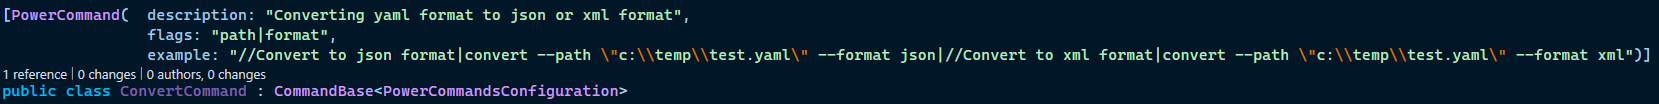
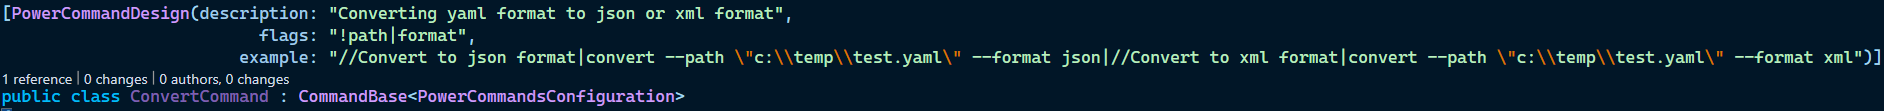
Updated documentation

diff --git a/src/PainKiller.PowerCommands/PainKiller.PowerCommands.MyExampleCommands/Commands/ConvertCommand.cs b/src/PainKiller.PowerCommands/PainKiller.PowerCommands.MyExampleCommands/Commands/ConvertCommand.cs
@@ -1,0 +1,16 @@
+using PainKiller.PowerCommands.MyExampleCommands.Configuration;
+
+namespace PainKiller.PowerCommands.MyExampleCommands.Commands;
+
+[PowerCommandDesign(description: "Converting yaml format to json or xml format",
+                          flags: "!path|format",
+                        example: "//Convert to json format|convert --path \"c:\\temp\\test.yaml\" --format json|//Convert to xml format|convert --path \"c:\\temp\\test.yaml\" --format xml")]
+public class ConvertCommand : CommandBase<PowerCommandsConfiguration>
+{
+    public ConvertCommand(string identifier, PowerCommandsConfiguration configuration) : base(identifier, configuration) { }
+
+    public override RunResult Run()
+    {
+        return Ok();
+    }
+}

diff --git a/src/PainKiller.PowerCommands/Core/PainKiller.PowerCommands.Core/Managers/InputValidationManager.cs b/src/PainKiller.PowerCommands/Core/PainKiller.PowerCommands.Core/Managers/InputValidationManager.cs
@@ -36,7 +36,7 @@ public class InputValidationManager
         {
             flagInfo.Value = _input.GetFlagValue(flagInfo.Name);
             if (!string.IsNullOrEmpty(flagInfo.Value)) continue;
-            _logger.Invoke($"{flagInfo.Name}", DisplayAndWriteToLog);
+            _logger.Invoke($"Flag [{flagInfo.Name}] is required to have a value.", DisplayAndWriteToLog);
             retVal.HasValidationError = true;
         }
 

diff --git a/Docs/PowerCommandDesignAttribute.md b/Docs/PowerCommandDesignAttribute.md
@@ -1,4 +1,4 @@
-# PowerCommands Attribute
+# PowerCommandsDesign Attribute
 ## Always describe your Commands
 Be kind to your consumer as it often turn out to be you that are the consumer, fill in a shourt description of what the PowerCommand is doing and how to use it.
 This is easy with the usage of the PowerCommandsAttribute, just apply them on the top of your class definition.
@@ -24,31 +24,39 @@ And this help will be displayed:
 
 ### A clooser look on the syntax
 ```
-[PowerCommand(  description: "Converting yaml format to json or xml format",
-                flags: "path|format",
+[PowerCommandDesign(  description: "Converting yaml format to json or xml format",
+                flags: "!path|format",
                 example: "//Convert to json format|convert --path \"c:\\temp\\test.yaml\" --format json|//Convert to xml format|convert --path \"c:\\temp\\test.yaml\" --format xml")]
 ```
 The user can use this command like this (note that argument and quotes are not described in the attribute beacause this command do not use them):
 
 ![Alt text](images/Command_line_input_described.png?raw=true "Describe convert command")
 
+## Mark argument, quote, flag or secret as required with **!** character
+If you look close at the example above you see two **flags** are declared like this **!path** and **format** the **!** character before the flag name tells the Core Runtime that this flag requires a value and it will be validated before the command Run methods executes, if he user ommits the **path** flag value this will occur:
+
+![Alt text](images/convert_validation_error.png?raw=true "Describe convert command")
+
 ## Properties described
 ### arguments
 Describe your arguments, separate them with | use // to display a commented line over the actual argument.
-### argumentMandatory
-Gives the user a hint that at least one argument is mandatory, it is only to help the user, the validation of the input is up to the command programmer to implement.
 ### quotes
 Describe your quotes, separate them with | use // to display a commented line over the actual quote.
-### quoteMandatory
-Gives the user a hint that at least one quote is mandatory, it is only to help the user, the validation of the input is up to the command programmer to implement.
 ### suggestion
 Suggestion will be added to the autocomplete functionallity so the user could use tab to cycle trough the commands and commands with a suggested argument.
 ### flags
 Describe your flags, separate them with | use // to display a commented line over the actual flag, all flags that are described will also be used by the autocomplete functionallity to help the user find the right flag.
 Read more about [Flags](Flags.md).
+### secrets
+Describe your secrets that the commands needs, you probably want to declare a secret as required with **!** character, in the sample above secret **cnDatabase** is marked as required.
+```
+[PowerCommandDesign(  description: "Database command",
+                          secrets: "!cnDatabase",
+                          example: "//Get customers|customer")]
+```
+Read more about how to manage [Secrets](Secrets.md).
 ### example
 Describe examples on how to use the command, separate them with | use // to display a commented line over the actual example.
-
 
 ### Separator and comments
 Flags, quotes, arguments and example all have a property on the PowerCommandAttribute, each item are separeted with | and if you want to put a comment row before your item add this with the prefix //, if you look at the example it is used to describe two examples of usage.

diff --git a/Docs/Design_command.md b/Docs/Design_command.md
@@ -22,9 +22,9 @@ using PainKiller.PowerCommands.MyExampleCommands.Configuration;
 
 namespace PainKiller.PowerCommands.MyExampleCommands.Commands;
 
-[PowerCommand(  description: "Converting yaml format to json or xml format",
-                flags: "path|format",
-                example: "//Convert to json format|convert --path \"c:\\temp\\test.yaml\" --format json|//Convert to xml format|convert --path \"c:\\temp\\test.yaml\" --format xml")]
+[PowerCommandDesign(  description: "Converting yaml format to json or xml format",
+                            flags: "path|format",
+                          example: "//Convert to json format|convert --path \"c:\\temp\\test.yaml\" --format json|//Convert to xml format|convert --path \"c:\\temp\\test.yaml\" --format xml")]
 public class ConvertCommand : CommandBase<PowerCommandsConfiguration>
 {
     public ConvertCommand(string identifier, PowerCommandsConfiguration configuration) : base(identifier, configuration) { }
@@ -32,28 +32,29 @@ public class ConvertCommand : CommandBase<PowerCommandsConfiguration>
     public override RunResult Run()
     {
         YamlFormatManger.Convert(Input.GetFlagValue("path"), Input.GetFlagValue("format"));
-        return CreateRunResult();
+        return Ok();
     }
 }
 ```
-Notice that the documentation for how this command will be used is created with the [PowerCommand](PowerCommandAttribute.md) attribute.
+Notice that the documentation for how this command will be used is created with the [PowerCommandDesign](PowerCommandDesignAttribute.md) attribute.
 
 ## The user input
 ![Alt text](images/Command_line_input_convert.png?raw=true "Describe convert command")
 
 This input will first be handled by the Core Framework, using the Identifier an instanse of the ConvertCommand will be created and the framework will also add the [Input](Input.md) instance to the ConvertCommand instans wich give your convert command two flags named **path** and **format** to handle progamatically to create a file on the given path with the given format.
 
-## But must I use the PowerCommand attribute on every command I create?
-No that is not mandatory but it is recommended, note that when you declare the flags, they will be available for code completion, wich means that when the consumer types - and hit the tab button the user will can se what flags there are that could be used. That is really nice, you could read more about design of good Command Line Inter fade design here:
+## Must I use the PowerCommandDesign attribute on every command I create?
+No that is not mandatory but it is recommended, note that when you declare the flags, they will be available for code completion, wich means that when the consumer types - and hit the tab button the user will can se what flags there are that could be used, with a simple ! character you tell that the argument, quote, flag or secret is required and then the Core runtime will validate that automatically for you. That is really nice, you could read more about design of good Command Line Inter fade design here:
+
+Next step is to understand the [Power Commands Design attribute](PowerCommandDesignAttribute.md)
 
 [10 design principles for delightful CLIs](https://blog.developer.atlassian.com/10-design-principles-for-delightful-clis/)
 
 Read more about:
 
+
 [Input](Input.md)
 
 [Flags](Flags.md)
-
-[PowerCommands Attribute](PowerCommandAttribute.md)
 
 [Back to start](https://github.com/PowerCommands/PowerCommands2022/blob/main/Docs/README.md)

diff --git a/Docs/README.md b/Docs/README.md
@@ -7,6 +7,8 @@
 ## Commands development
 [Design your Command](Design_command.md)
 
+[Power Commands Design attribute](PowerCommandDesignAttribute.md)
+
 [Command base class](CommandBase.md)
 
 [Handling the Input](Input.md)
@@ -14,8 +16,6 @@
 [Using Flags](Flags.md)
 
 [Output to the Console guidline](ConsoleOutput.md)
-
-[Self documentation using attribute](PowerCommandAttribute.md)
 
 ## Core framework
 [PowerCommandsRuntime](PowerCommandsRuntime.md)

diff --git a/Docs/Create_new_command.md b/Docs/Create_new_command.md
@@ -14,7 +14,7 @@ public class HelloWorldCommand : CommandBase<PowerCommandsConfiguration>
     public override RunResult Run()
     {
         WriteLine("Hello World!");
-        return CreateRunResult();
+        return Ok();
     }
 }
 ```
